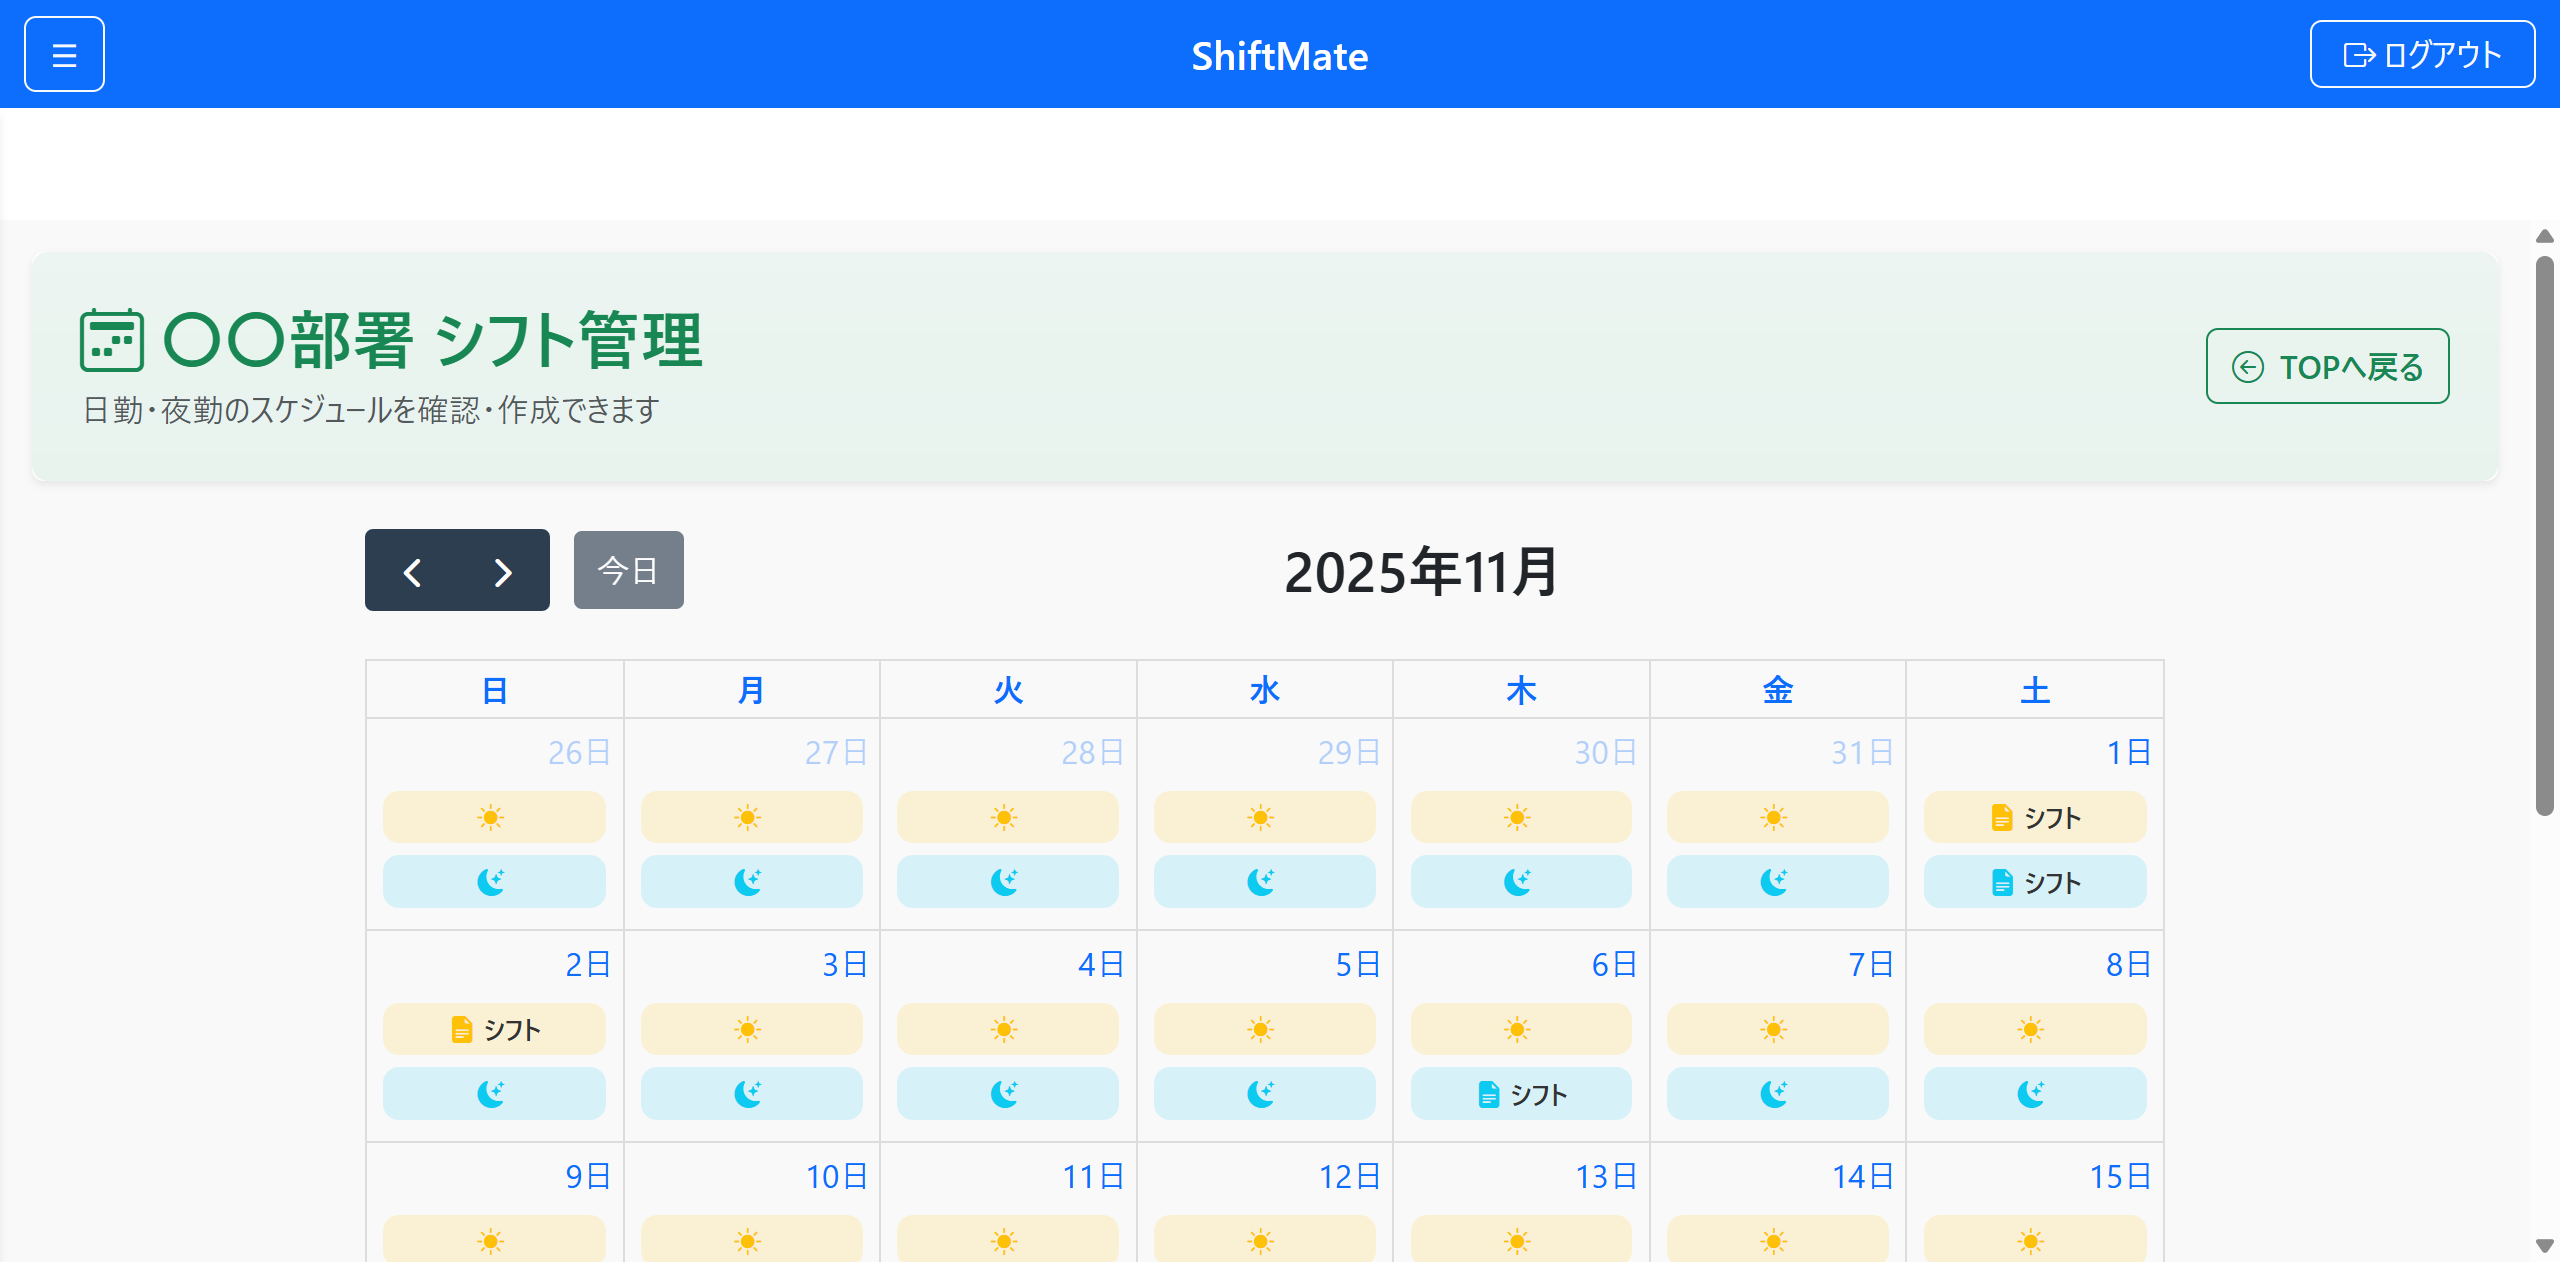
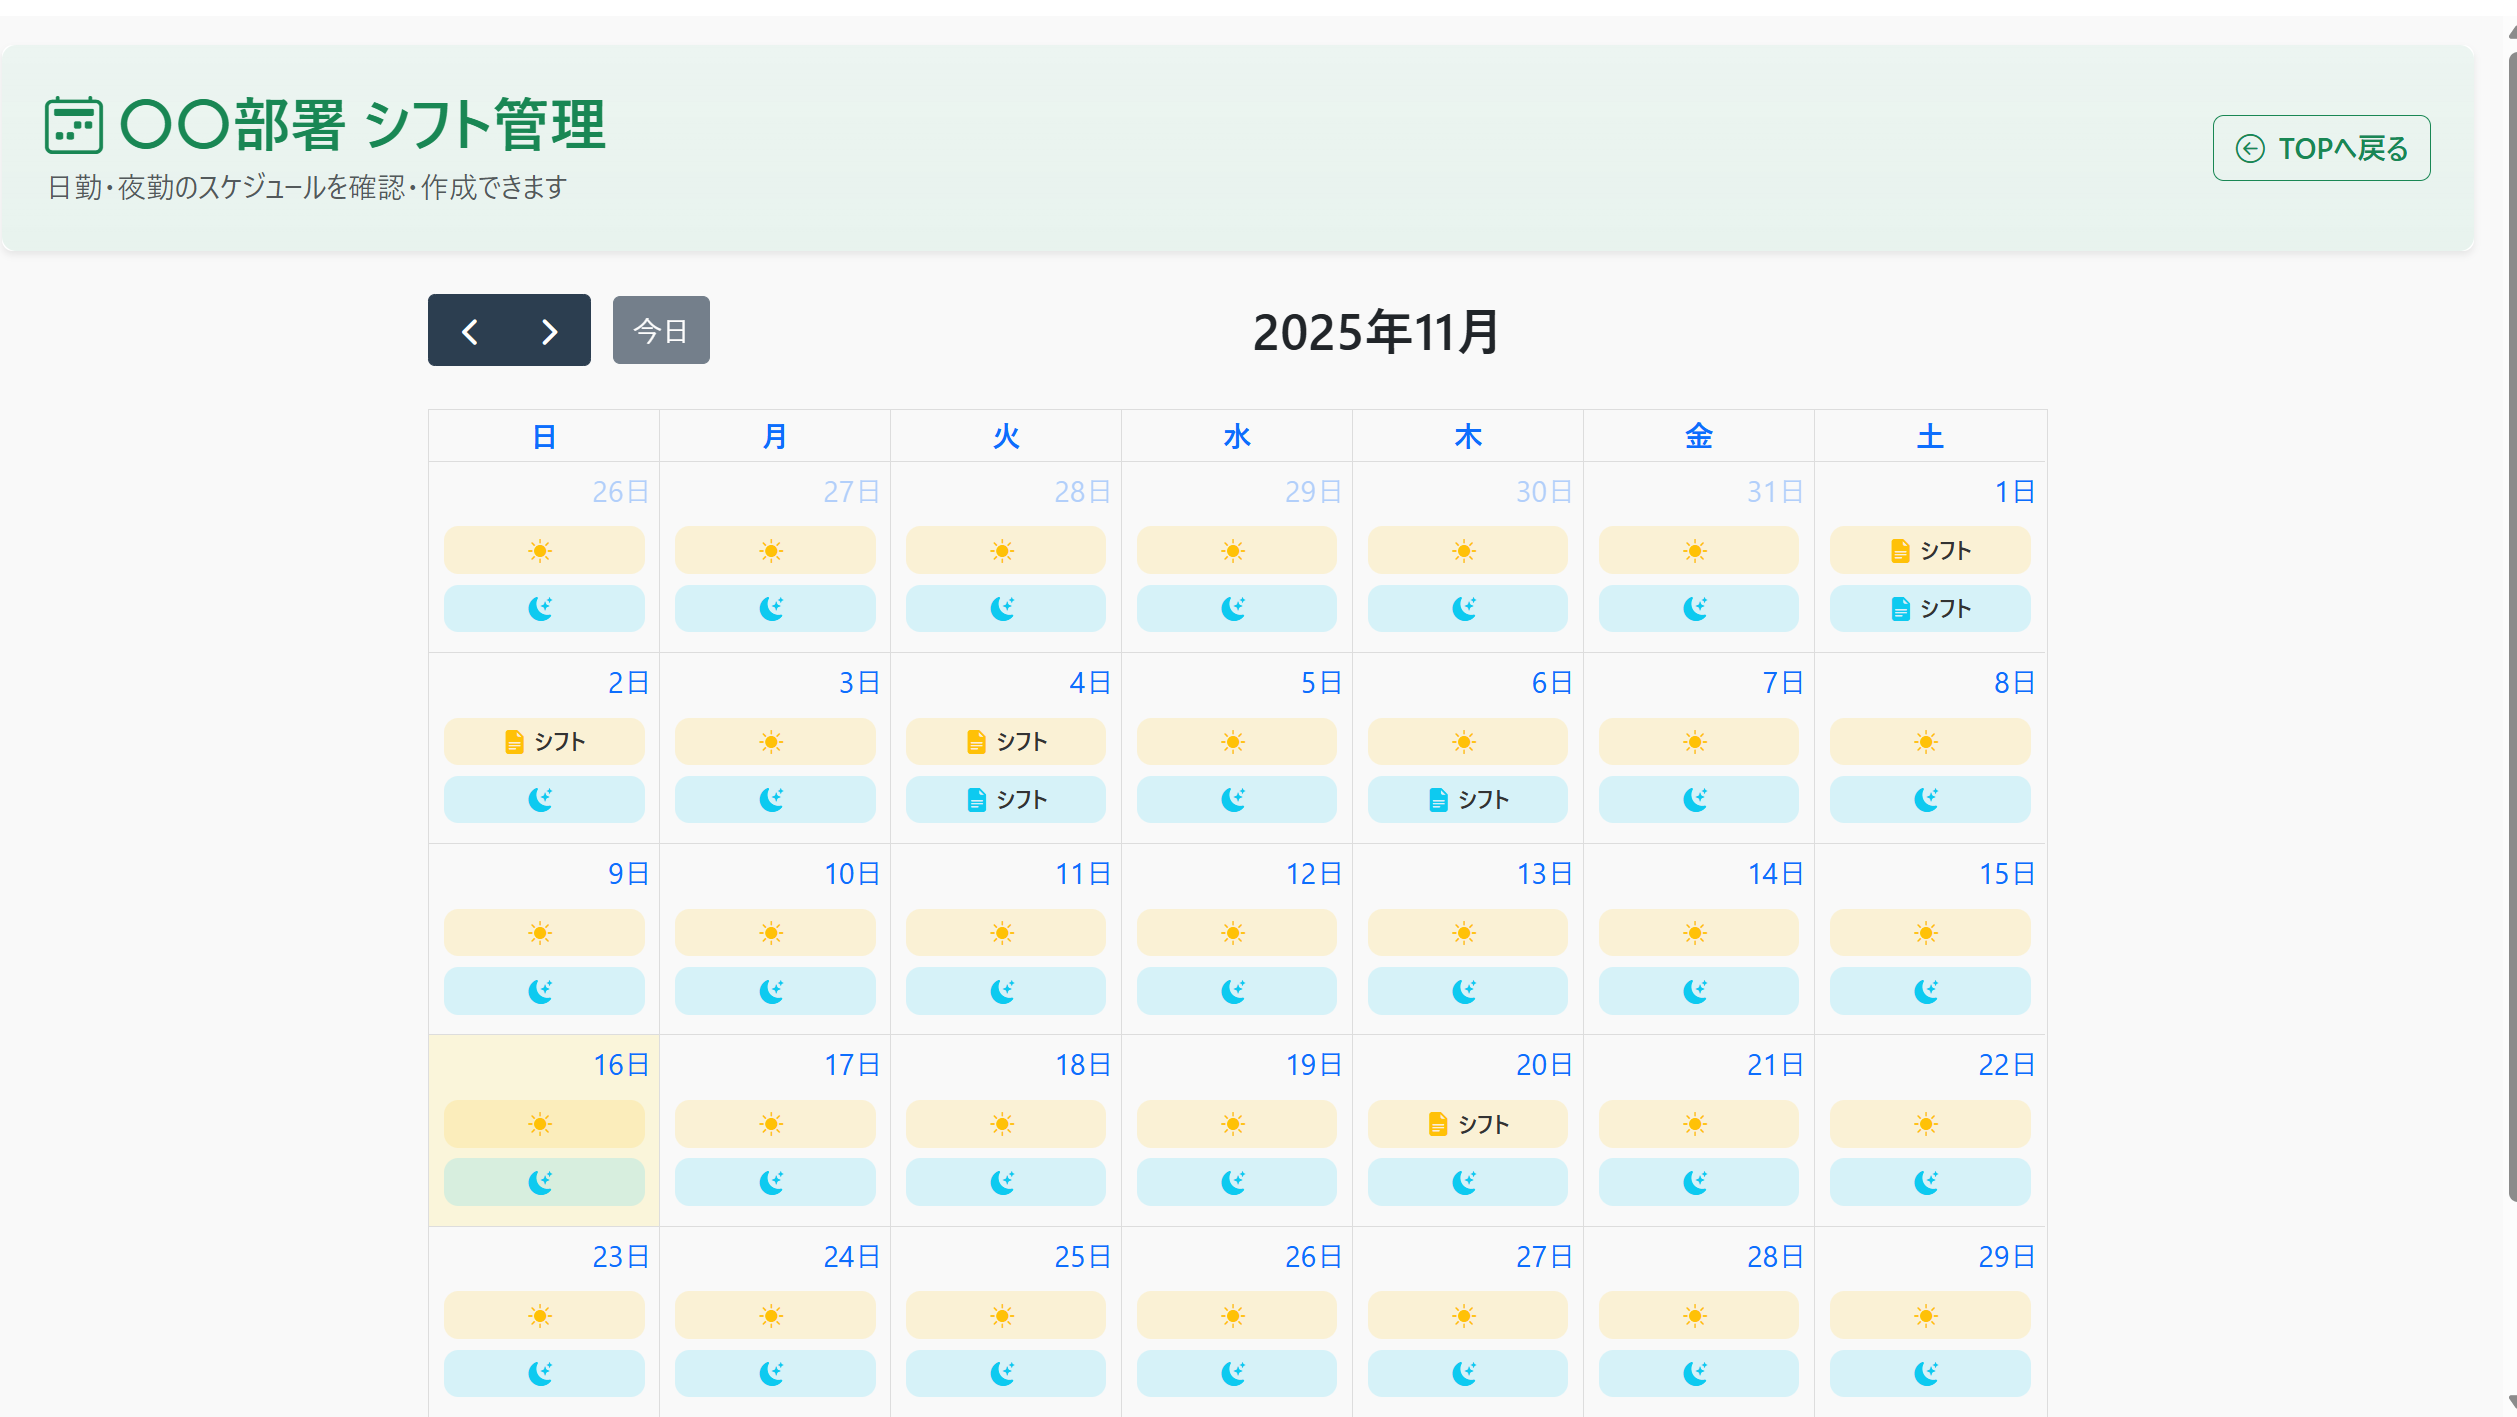
修正5

diff --git a/README.md b/README.md
@@ -37,14 +37,17 @@ https://shiftmate-app-f4dad2196d7c.herokuapp.com/
 ## 機能紹介
 ### ログイン画面
 <img src="images/loginimage.png" width="600" alt="ログイン画像">
-「ID」「メールアドレス」「パスワード」「確認用パスワード」を使用してユーザー登録を行います。  
-「ID」は社員IDコードなどを想定しています。ログインは「ID」「パスワード」でログイン処理を行います。  
-また、Googleアカウントを用いてGoogleログインを行うことも可能としました。  
+  
+「ID」「メールアドレス」「パスワード」「確認用パスワード」を使用してユーザー登録を行います。
+  
+「ID」は社員IDコードなどを想定しています。ログインは「ID」「パスワード」でログイン処理を行います。
+  
+また、Googleアカウントを用いてGoogleログインを行うことも可能としました。
   
   
 ### プロジェクト(施設)選択
 管理者が複数のプロジェクト(施設)でのシフト作成を行う可能性も考慮し、プロジェクト(施設)を選択するとカレンダーページに遷移します。カレンダーでは日勤と夜勤のシフトの新規作成、作成済シフトの参照を行うことができます。
-![プロジェクト選択](https://i.gyazo.com/a99d3fedf842d669966837782c8f52f1.gif)
+<img src="images/calendarimage.png" width="600" alt="カレンダー画像">
   
   
 ### シフト作成：夜勤編
@@ -64,10 +67,9 @@ https://shiftmate-app-f4dad2196d7c.herokuapp.com/
 ・グループ内のスタッフで休憩時間が被らない  
 ・深夜帯（0時～6時）で優先的に休憩を配置する  
 ・深夜帯に入りきらない休憩は深夜帯に近い時間（22時～0時）で配置する  
-  
 ![デモ](https://i.gyazo.com/821460cb0b98e15161d44ef45ad0411b.gif)
   
-
+  
 4. 編集画面
 シフト自動作成後に「休憩場所」「休憩開始時間」「コメント」の編集が可能です  
 スタッフの希望などに合わせて自由に調整が可能です。  
@@ -80,16 +82,15 @@ https://shiftmate-app-f4dad2196d7c.herokuapp.com/
 1. スタッフ選択  
 ![デモ](https://i.gyazo.com/a99d3fedf842d669966837782c8f52f1.gif)
   
-
+  
 2. グループ/休憩希望選択  
-![デモ]（https://i.gyazo.com/2d893d4c00fa1a38b91a700ff4000e67.gif）
+![デモ](https://i.gyazo.com/2d893d4c00fa1a38b91a700ff4000e67.gif)
   
   
 3. シフト表示
 選択した情報を基にアプリがシフトを自動作成します。  
 休憩希望があるスタッフは優先され、希望ないスタッフは同じグループ内で休憩時間の偏りがないように自動配置します。  
 表示画面で管理者はシフトを編集可能できます。  
-  
 ![デモ](https://i.gyazo.com/daddba5be3751b430b4dbef82d35a344.gif)
   
   
@@ -124,138 +125,10 @@ https://shiftmate-app-f4dad2196d7c.herokuapp.com/
 - omniauth (google認証)
   
   
-  
+
 ### ER図
 <img src="images/erimage.png" width="600" alt="ER図">
   
 
 ### 画面遷移図
 Figma： https://www.figma.com/files/team/1541707923313849220/project/439874672/%E5%8D%92%E6%A5%AD%E5%88%B6%E4%BD%9C?fuid=1534487141311269457
-  
-  
-  
-  
-  
-  
-## サービスの利用イメージ
-- 各勤務帯毎での仮眠休憩シフト配置に特化し、大元となる勤務表は既存することを想定
-- 管理者は勤務表から当日の勤務者を選択する
-- 役職・勤務時間・休憩室数・小グループ設定などを入力する
-　(休憩時間を被らせたくない場合、小グループ化しその間で交代をする)
-- アプリが自動で仮眠休憩を割り当て、シフト表を生成する
-　(縦軸：スタッフ名、横軸：時間 として労働・仮眠時間、仮眠場所が分かるように出力)
-- 管理者は必要に応じて手動で調整できる
-- 完成したシフト表をPDF出力し、スタッフに共有できる
-- 過去のシフト表はDBに保存され、参照可能
-- 施設ごと管理者1人での利用を想定
-
-## ユーザーの獲得について
-本サービスは医療機関やコールセンターなど24時間稼働している職場全般で活用可能である。まずは、現在勤務中の職場に業務改善案として本サービス・アプリケーションの導入の提案を行い、使用ユーザーの獲得を目指している。
-導入が実現すれば、自分が所属する管理者間で操作頂き使用感や改善点などのフィードバックを募り今度のサービス改善に繋げていく予定。
-
-## サービスの差別化ポイント・推しポイント
-- 仮眠休憩に特化している点
-  一般的なシフト作成アプリケーションは月間や週間などの全体的な勤務を管理するが、本サービスは"仮眠休憩"に特化
-- 詳細な設定が可能な点
-  「役職ごとの条件」「勤務帯ごとの小グループ設定」「複数の休憩室対応」など現場で実際に困っている細かいルールに対応する。
-  市販のシフト管理アプリではカスタマイズしづらい部分を反映できる。
-- 自動化と手動調整が可能な点
-  シフト生成を自動化し、手動調整も行えるようにすることで人間的な配慮も可能とする
-- データ保存・参照が可能な点
-  過去のシフトをDBに保存することで、過去の休憩割り当てや記録を確認するニーズも対応
-- 複数の施設のシフト作成が可能な点
-  一人の管理人が複数の施設のシフトを担当する、複数の管理人が一つの施設のシフト作成を担当することも可能とする
-
-- 日勤版のシフト作成が可能な点 (new)
-  これまでの夜勤版だけではなく日勤版のシフト作成機能を追加
-  日勤(9時～18時、休憩：1時間)とし、日勤ならではの条件も選択できるようにし機能をアップデート
-
-## 機能候補
-### MVPリリース時に作っていたいもの
-- 勤務者の登録と管理(名前、役職、権限)
-- シフト作成（勤務者、勤務時間を選択）
-- 条件設定(休憩室、小グループ)
-- 入力条件に基づき休憩時間、配置を自動作成
-- シフト表のタイムライン式表示（縦軸:スタッフ名、横軸:時間軸）
-- シフト編集機能（個々の勤務時間、休憩時間、休憩室をプルダウン式で編集可能）
-- DBに保存しカレンダー式で履歴を参照できる
-- 施設ごとのシフトをprojectsとし、usersとprojectsの間にuser_projectsとなる中間テーブルを設定する
-
-### シフト自動作成のロジックについて
-＜夜勤＞
-- ユーザーが設定する条件
-  - シフトメンバーと人数
-  - 休憩場所と数
-  - 小グループ分け
-
-- 制約条件
-  - 休憩時間は2時間固定
-  - 小グループ内で休憩時間が重ならないように配置（できるだけ）
-  - 同じ時間で休憩場所は被らないように配置
-  - 夜勤18時~9時の間、0時～6時は優先的に休憩を割り当てる
-
-- 自動割り当てアルゴリズム概要
-  - 夜勤時間をスロット化、0~6時を優先順序の先頭に配置する
-  - 優先スロットから順番に空き時間を確認、小グループと休憩場所の重複を避け割り当て
-
-＜日勤＞
-- ユーザーが設定する条件
-  - シフトメンバーと人数
-  - 小グループ分け
-  - 休憩時間の希望(早め[11~12時]中間[12~13時]遅め[13~14時])
-
-― 制約条件
-  - 休憩時間は1時間固定
-  - 休憩時間の希望は最優先する
-  - 希望がないスタッフは小グループ内で休憩に偏りがないよう自動分配する
-  
-### 本リリースまでに作っていたいもの
-- 作成したシフトをPDF化し印刷対応可能にする
-- 履歴参照画面 (カレンダー表示にし過去はPDF表示,未来は編集画面へ遷移)
-- 日勤版のシフト作成
-- レスポンシブ対応
-
-## 機能の実装方針予定
-### バックエンド
-- Ruby: 3.3.6
-- Ruby on Rails: 8.0.2.1
-- PostgreSQL(データベース)
-- Heroku
-
-### フロントエンド
-- HTML/CSS
-- Javascript
-  - stimulus(シフト手動編集時のUI)
-  - Select2(シフト作成時のスタッフ名の検索/複数選択)
- 
-### gem
-- devise:ログイン
-- pundit:権限管理
-- simple_form
-- full_calendar
-- kaminari (ページネーション)
-- ActionMailer
-- wickedPDF (PDF作成)
-- SecureRandom (招待機能のToken管理)
-- omniauth (google認証)
-
-
-
-### 画面遷移図
-Figma：https://www.figma.com/files/team/1541707923313849220/project/439874672/%E5%8D%92%E6%A5%AD%E5%88%B6%E4%BD%9C?fuid=1534487141311269457
-
-### READMEに記載した機能
-- [x] ユーザー登録機能(divise)
-- [x] ログイン機能
-- [x] シフト自動作成機能
-- [x] シフト手動編集機能
-- [x] グループ分け機能
-- [x] パスワード変更機能
-- [x] メールアドレス変更機能
-- [x] スタッフ検索機能
-- [x] ページネーション
-- [x] 日勤シフト作成機能追加
-
-
-### 未ログインでも閲覧または利用できるページ
-- 未ログインでも利用できるページは存在しない(全機能ログイン必須)
